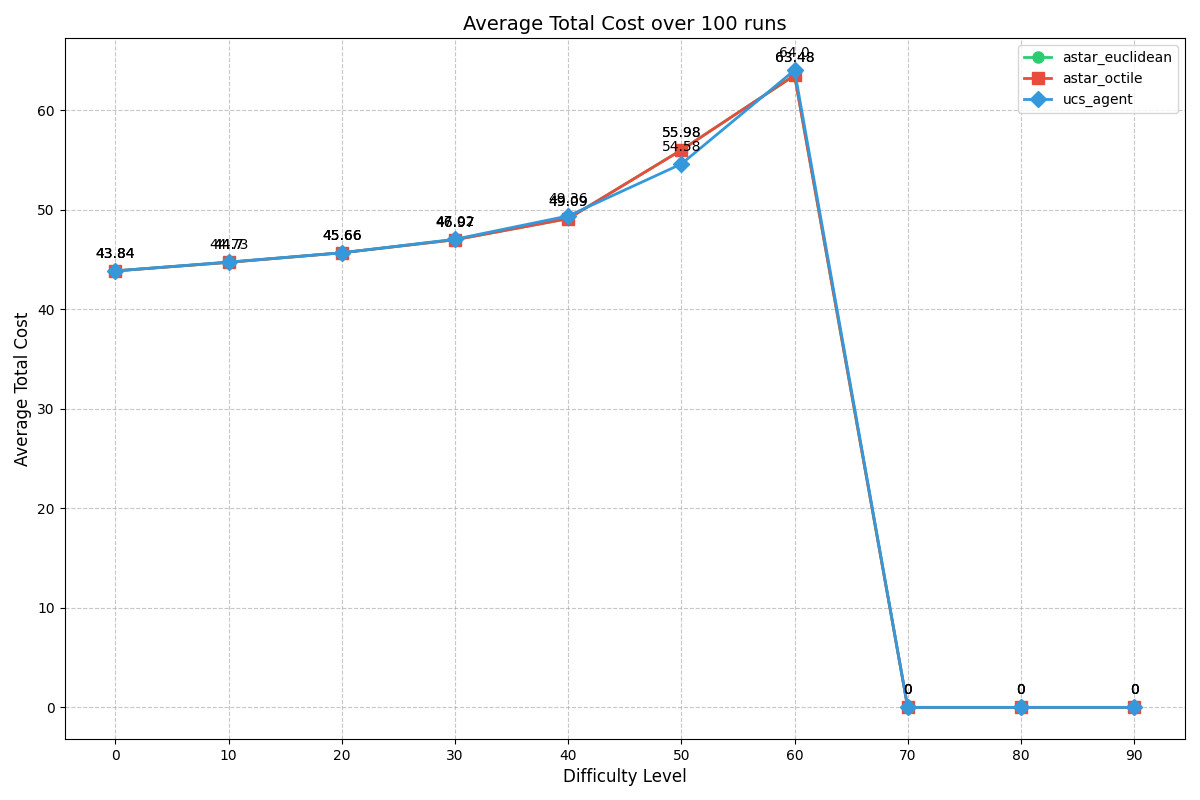
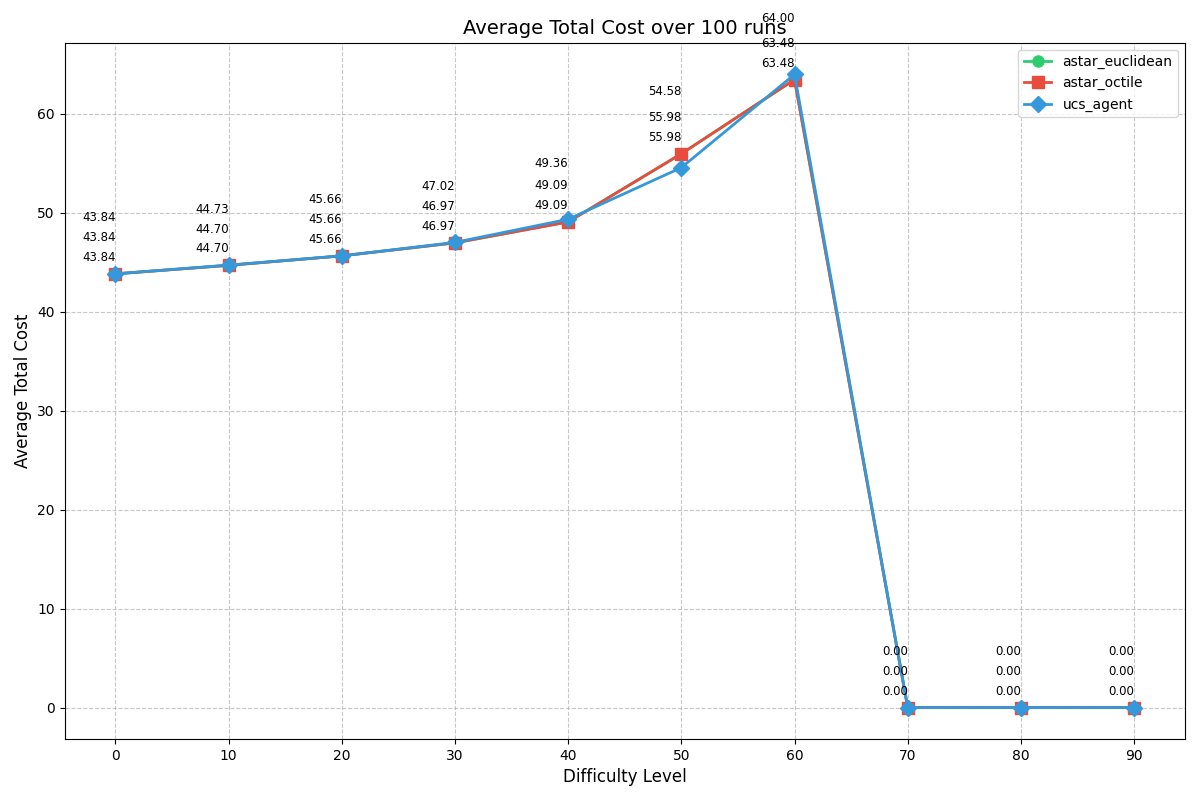
minior changes

diff --git a/plots/plots.py b/plots/plots.py
@@ -72,7 +72,9 @@ def cost_comparison_plot(algorithms, markers, colors):
     """
     difficulties = list(range(0, 91, 10))
     plt.figure(figsize=(12, 8))
-
+    
+    overlap_value_dict = {}
+    
     for algorithm, marker, color in zip(algorithms, markers, colors):
         avg_costs,_= cost_nodes_data(algorithm)
         plt.plot(difficulties, avg_costs, 
@@ -85,7 +87,14 @@ def cost_comparison_plot(algorithms, markers, colors):
 
         # mark labels on top of the lines
         for x, y in zip(difficulties, avg_costs):
-            plt.text(x, y + 1, str(y), ha='center', va='bottom')
+            offset = 1
+            while any(abs(overlap_value - (y+offset)) < 2 for overlap_value in overlap_value_dict.get(x, [])):
+                offset += 2
+            plt.text(x, y + offset, f"{y:.2f}", ha='right', va='bottom', fontsize=8.5)
+            
+            if x not in overlap_value_dict:
+                overlap_value_dict[x] = []
+            overlap_value_dict[x].append(y+offset)
 
     plt.xlabel('Difficulty Level', fontsize=12)
     plt.ylabel('Average Total Cost', fontsize=12)
@@ -96,8 +105,7 @@ def cost_comparison_plot(algorithms, markers, colors):
 
 
     plt.tight_layout()
-
-
+    #plt.subplots_adjust(right=0.85)
     plt.savefig('plots/algorithm_cost_comparison.png')
     plt.show()
 
